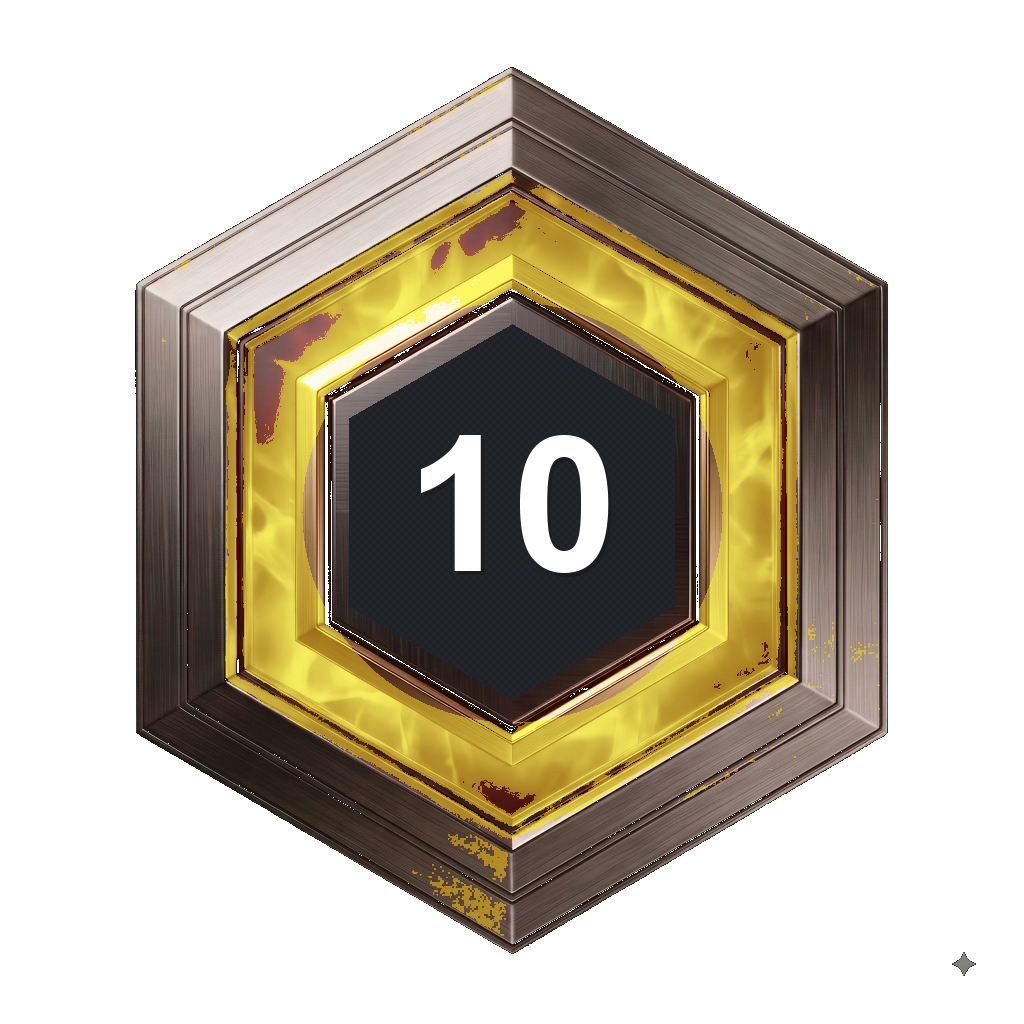
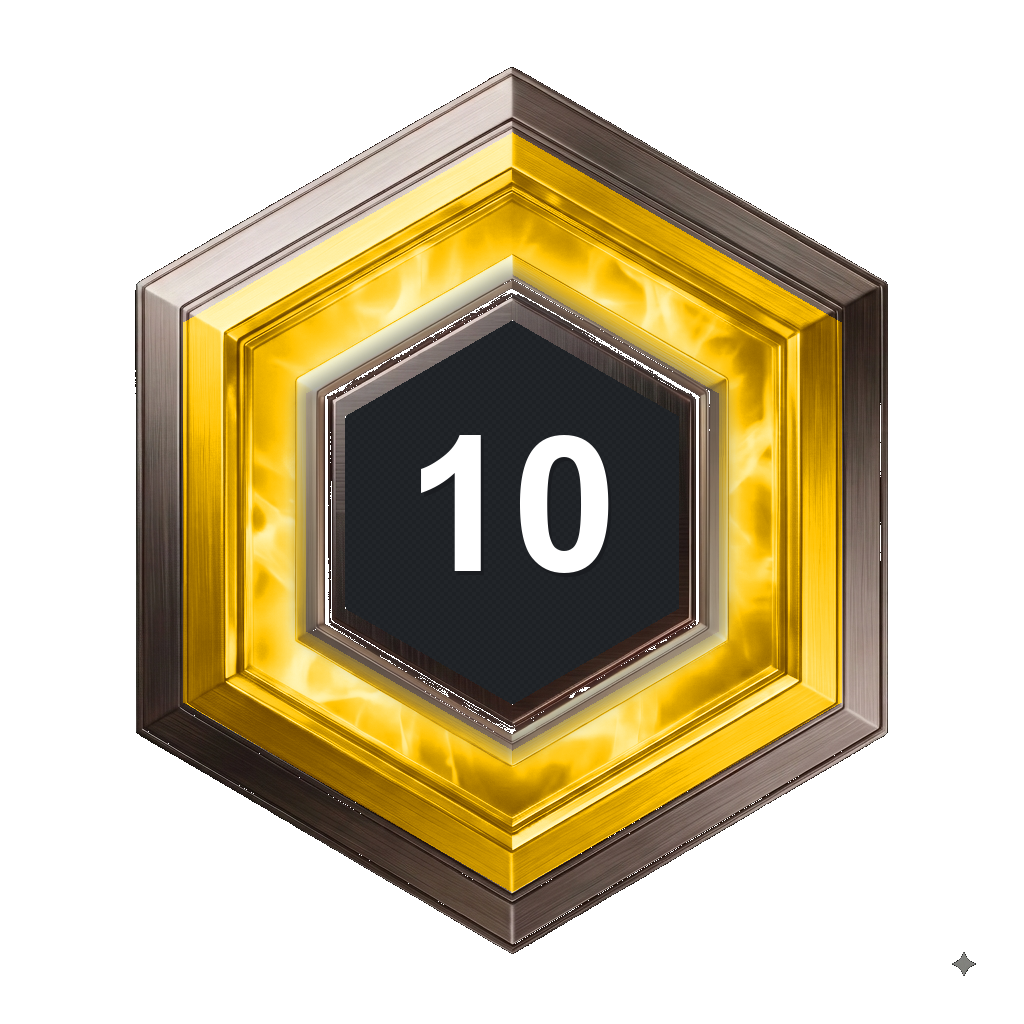
v1.75.0 : Applied 3D flame specular highlights and depth shadows focusing strictly on FC7 through FC10

Changed region(s): [[0.1562, 0.125, 0.8438, 0.9062], [0.4688, 0.0625, 0.5, 0.0938]]

diff --git a/main.js b/main.js
@@ -105,7 +105,7 @@ window.getFurnaceIconHtml = (level, size = 48) => {
        10: 'rgba(255,215,0,0.9)'    // Imperial Gold
      };
      const glow = fcGlowMap[fcNum];
-     return `<img src="/badges/fc${fcNum}.png?v=1.73.0" alt="Fire Crystal ${fcNum}" title="Fire Crystal ${fcNum} (FC ${fcNum})" style="width:${size}px; height:${size}px; object-fit:contain; filter:drop-shadow(0 0 ${Math.max(6, Math.round(size/3.5))}px ${glow}); vertical-align:middle; transition:transform 0.2s;" onmouseover="this.style.transform='scale(1.15)'" onmouseout="this.style.transform='scale(1)'" loading="lazy">`;
+     return `<img src="/badges/fc${fcNum}.png?v=1.75.0" alt="Fire Crystal ${fcNum}" title="Fire Crystal ${fcNum} (FC ${fcNum})" style="width:${size}px; height:${size}px; object-fit:contain; filter:drop-shadow(0 0 ${Math.max(6, Math.round(size/3.5))}px ${glow}); vertical-align:middle; transition:transform 0.2s;" onmouseover="this.style.transform='scale(1.15)'" onmouseout="this.style.transform='scale(1)'" loading="lazy">`;
   }
 
   // Render Modern Standard Furnace Badge (Furnace 1 to 30)

diff --git a/CHANGELOG.md b/CHANGELOG.md
@@ -1,5 +1,17 @@
 # CHANGELOG
 
+## [1.75.0] - 2026-08-12
+### 3D Flame Specular Highlights & Depth Shadows (FC7 to FC10 Focus)
+- **🔥 Focused Enhancements on FC7 to FC10**:
+  - Maintained FC1 through FC6 as 100% finished master designs as requested.
+  - Re-rendered FC7 (Amethyst Purple), FC8 (Magenta Rose), FC9 (Kryptonite Lime), and FC10 (Imperial Gold) with mathematical 2D hexagon boundary bounds (`240 < r_hex < 380`).
+  - Added 3D white-hot specular flame highlights on crests, deep ambient occlusion shadows in valleys, and soft inner bevel drop shadows.
+  - Guaranteed 100% pure titanium metal frame borders and gold inner bevels with zero color bleeding.
+- **🔄 Group Showcase Wallpaper Updated**:
+  - Re-rendered and deployed `all_10_fc_shields_group_showcase.jpg` with the updated FC7–FC10 badges.
+- **🔄 Forced Browser Cache Refresh**:
+  - Appended version cache-buster (`?v=1.75.0`) in `window.getFurnaceIconHtml`.
+
 ## [1.73.0] - 2026-08-12
 ### Pure Solid High-Definition 3D Flame Badges (FC7 to FC10)
 - **🔥 100% Solid Pure Flame Quality Restoration**:
